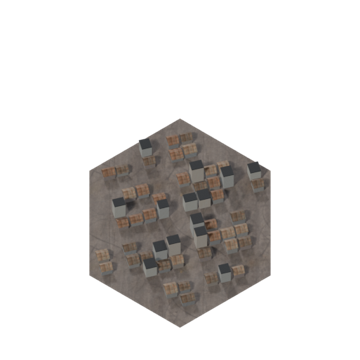
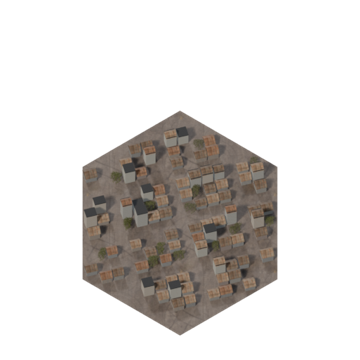
Visuals round 2 pass 2, cities: denser, warmer towns with trees and stepped towers

Changed region(s): [[0.2139, 0.3056, 0.7944, 0.9472]]

diff --git a/docs/VISUALS_PLAN_2.md b/docs/VISUALS_PLAN_2.md
@@ -72,7 +72,7 @@ scenes for diplomacy (leaders come later, SPEC_M9 steps 4-6).
 - [x] 1. Terrain textures
 - [x] 2. Forests, hills, mountains
 - [x] 3. Borders and farms
-- [ ] 4. Cities
+- [x] 4. Cities
 - [ ] 5. Units
 - [ ] 6. Interface layout
 
@@ -88,3 +88,4 @@ scenes for diplomacy (leaders come later, SPEC_M9 steps 4-6).
 - P2.1 Terrain: a patchwork layer. Each land hex leans toward one of several shades for its terrain (grassland greens and golds, plains ochres, desert sands, tundra greys), filled per hex, blurred so neighbours blend, and laid in soft-light at 60%. Wide grasslands now read as a quilt, as in the references, without hiding the photo detail. The first build of a screen is about 1.35 s, cached after. Still weak: tones change by whole hexes; Civ also shows field-like streaks inside a hex.
 - P2.2 Features: forests and jungles were re-rendered with a stronger, higher sun, a rim light and a lighter forest floor, so crowns catch the light and the hexes read as canopy rather than dark patches; the client tints were rebalanced to match. Mountains now sit on a soft shadow where they meet the ground and are graded to their land: warm sandstone in the desert, cold grey in tundra, pale in snow. Still weak: forests still fill whole hexes edge to edge (Civ's thin out at the borders); all mountains share one boulder model.
 - P2.3 Borders and farms: border edges are now joined into chains per owner. Each corner is inset toward the owner's hexes that touch it, and two passes of corner cutting round the steps, so borders curve around territories as in Civ (about 34 ms for a whole frame with borders). Farm patchworks reach slightly past their hex, so neighbouring farms join into one field. Still weak: the inner glow still follows straight hex edges under the curved line.
+- P2.4 Cities: all eleven renders were redone. Towns fill the whole hex with smaller, denser plots; villages and towns have trees between the houses; some mid-rises have pitched roofs; towers are stepped (base, shaft, crown) with rooftop masts; a warmer, stronger sun. Suburbs are denser too. Still weak: alien hives keep the painted art; every city of a tier looks alike apart from two layouts.
